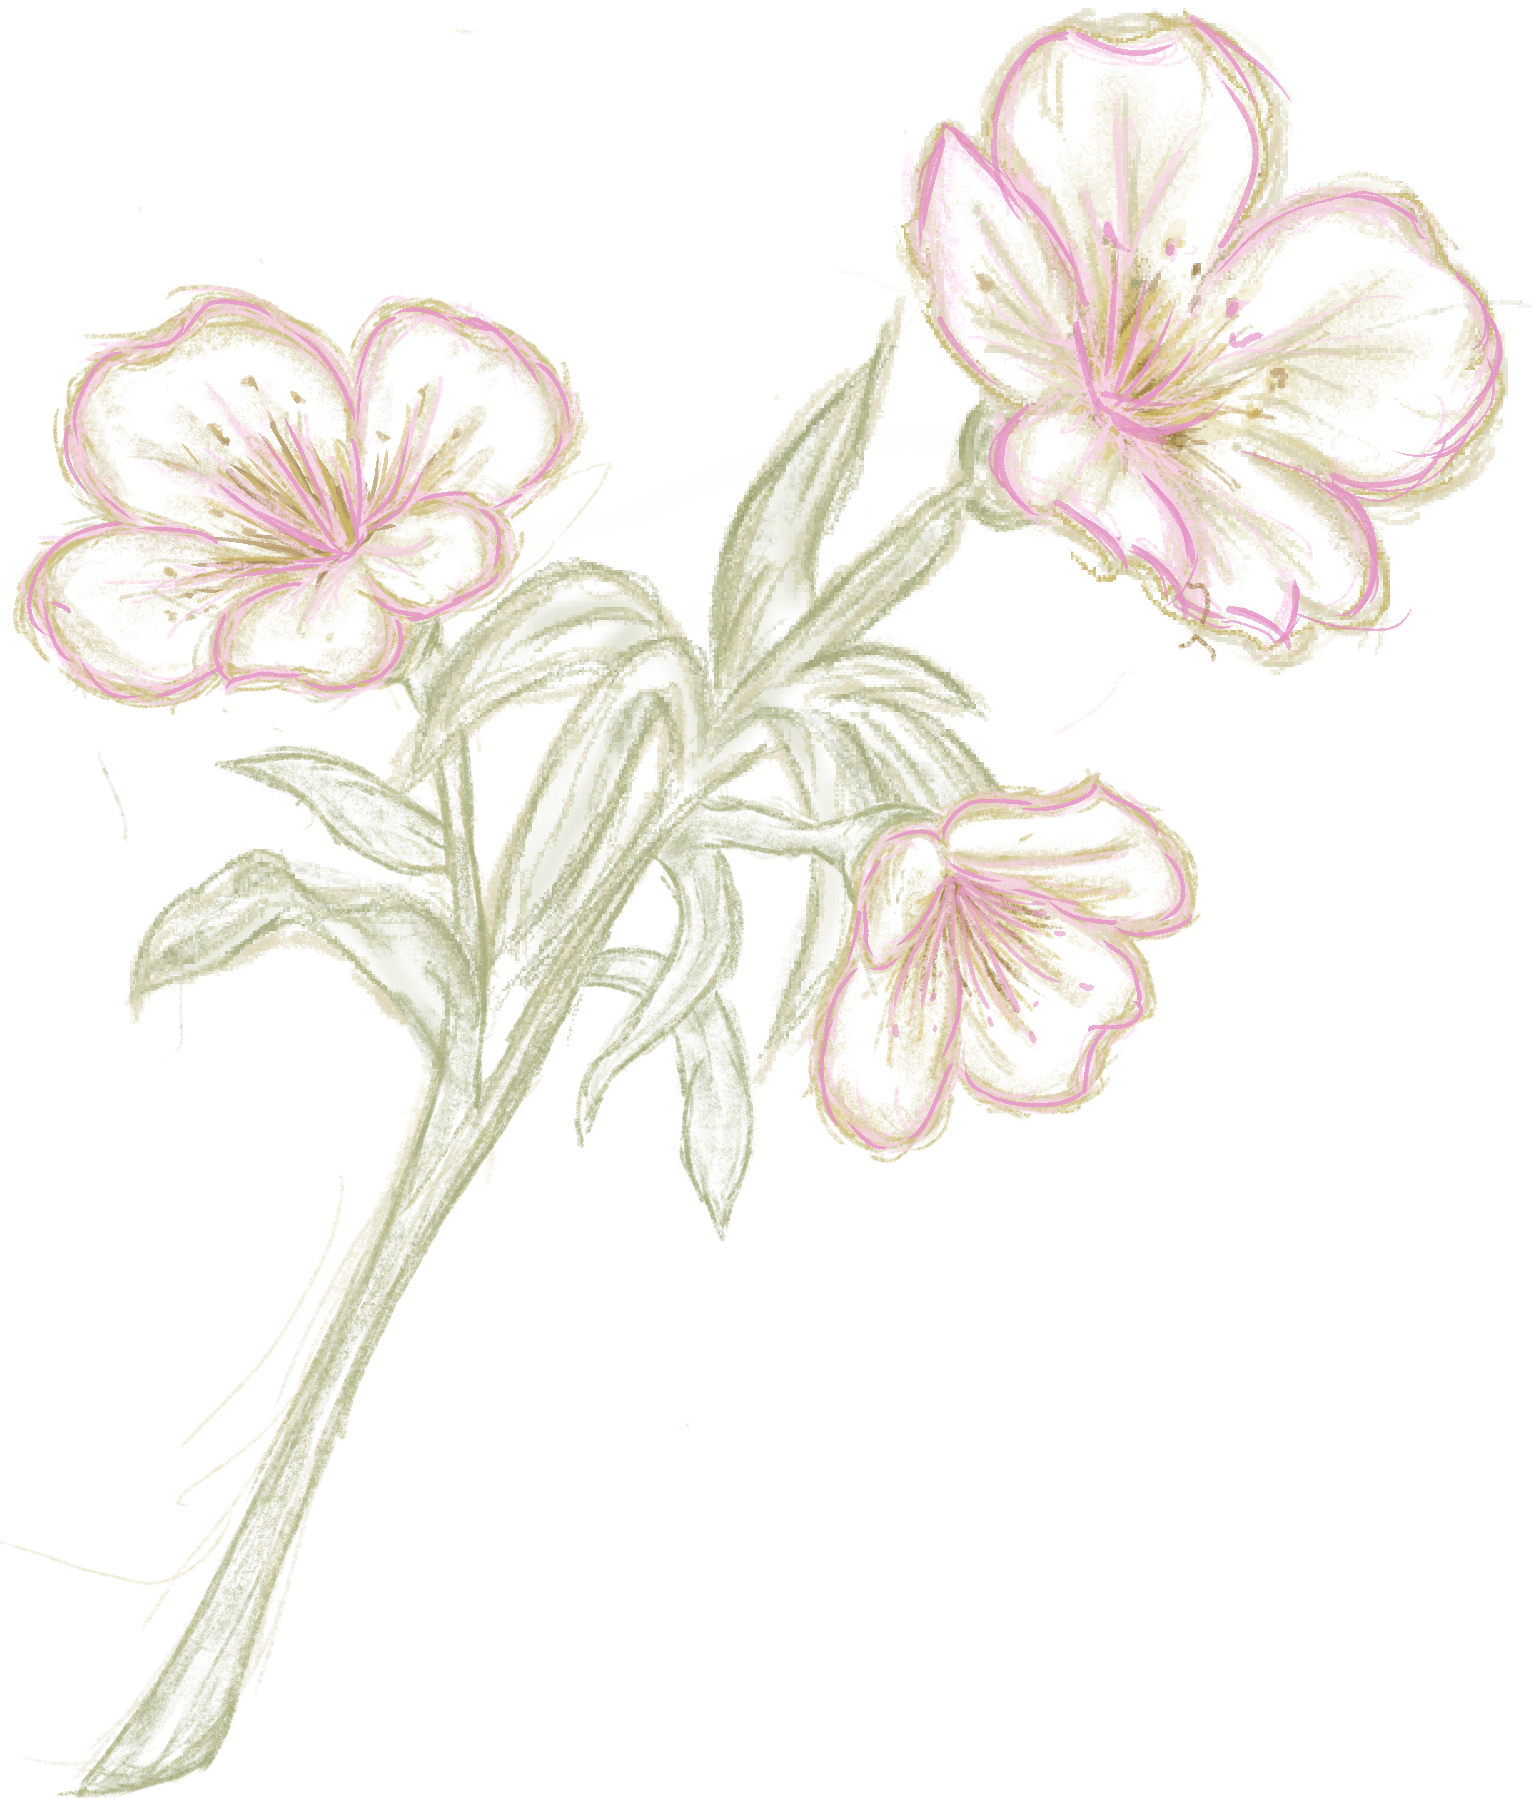
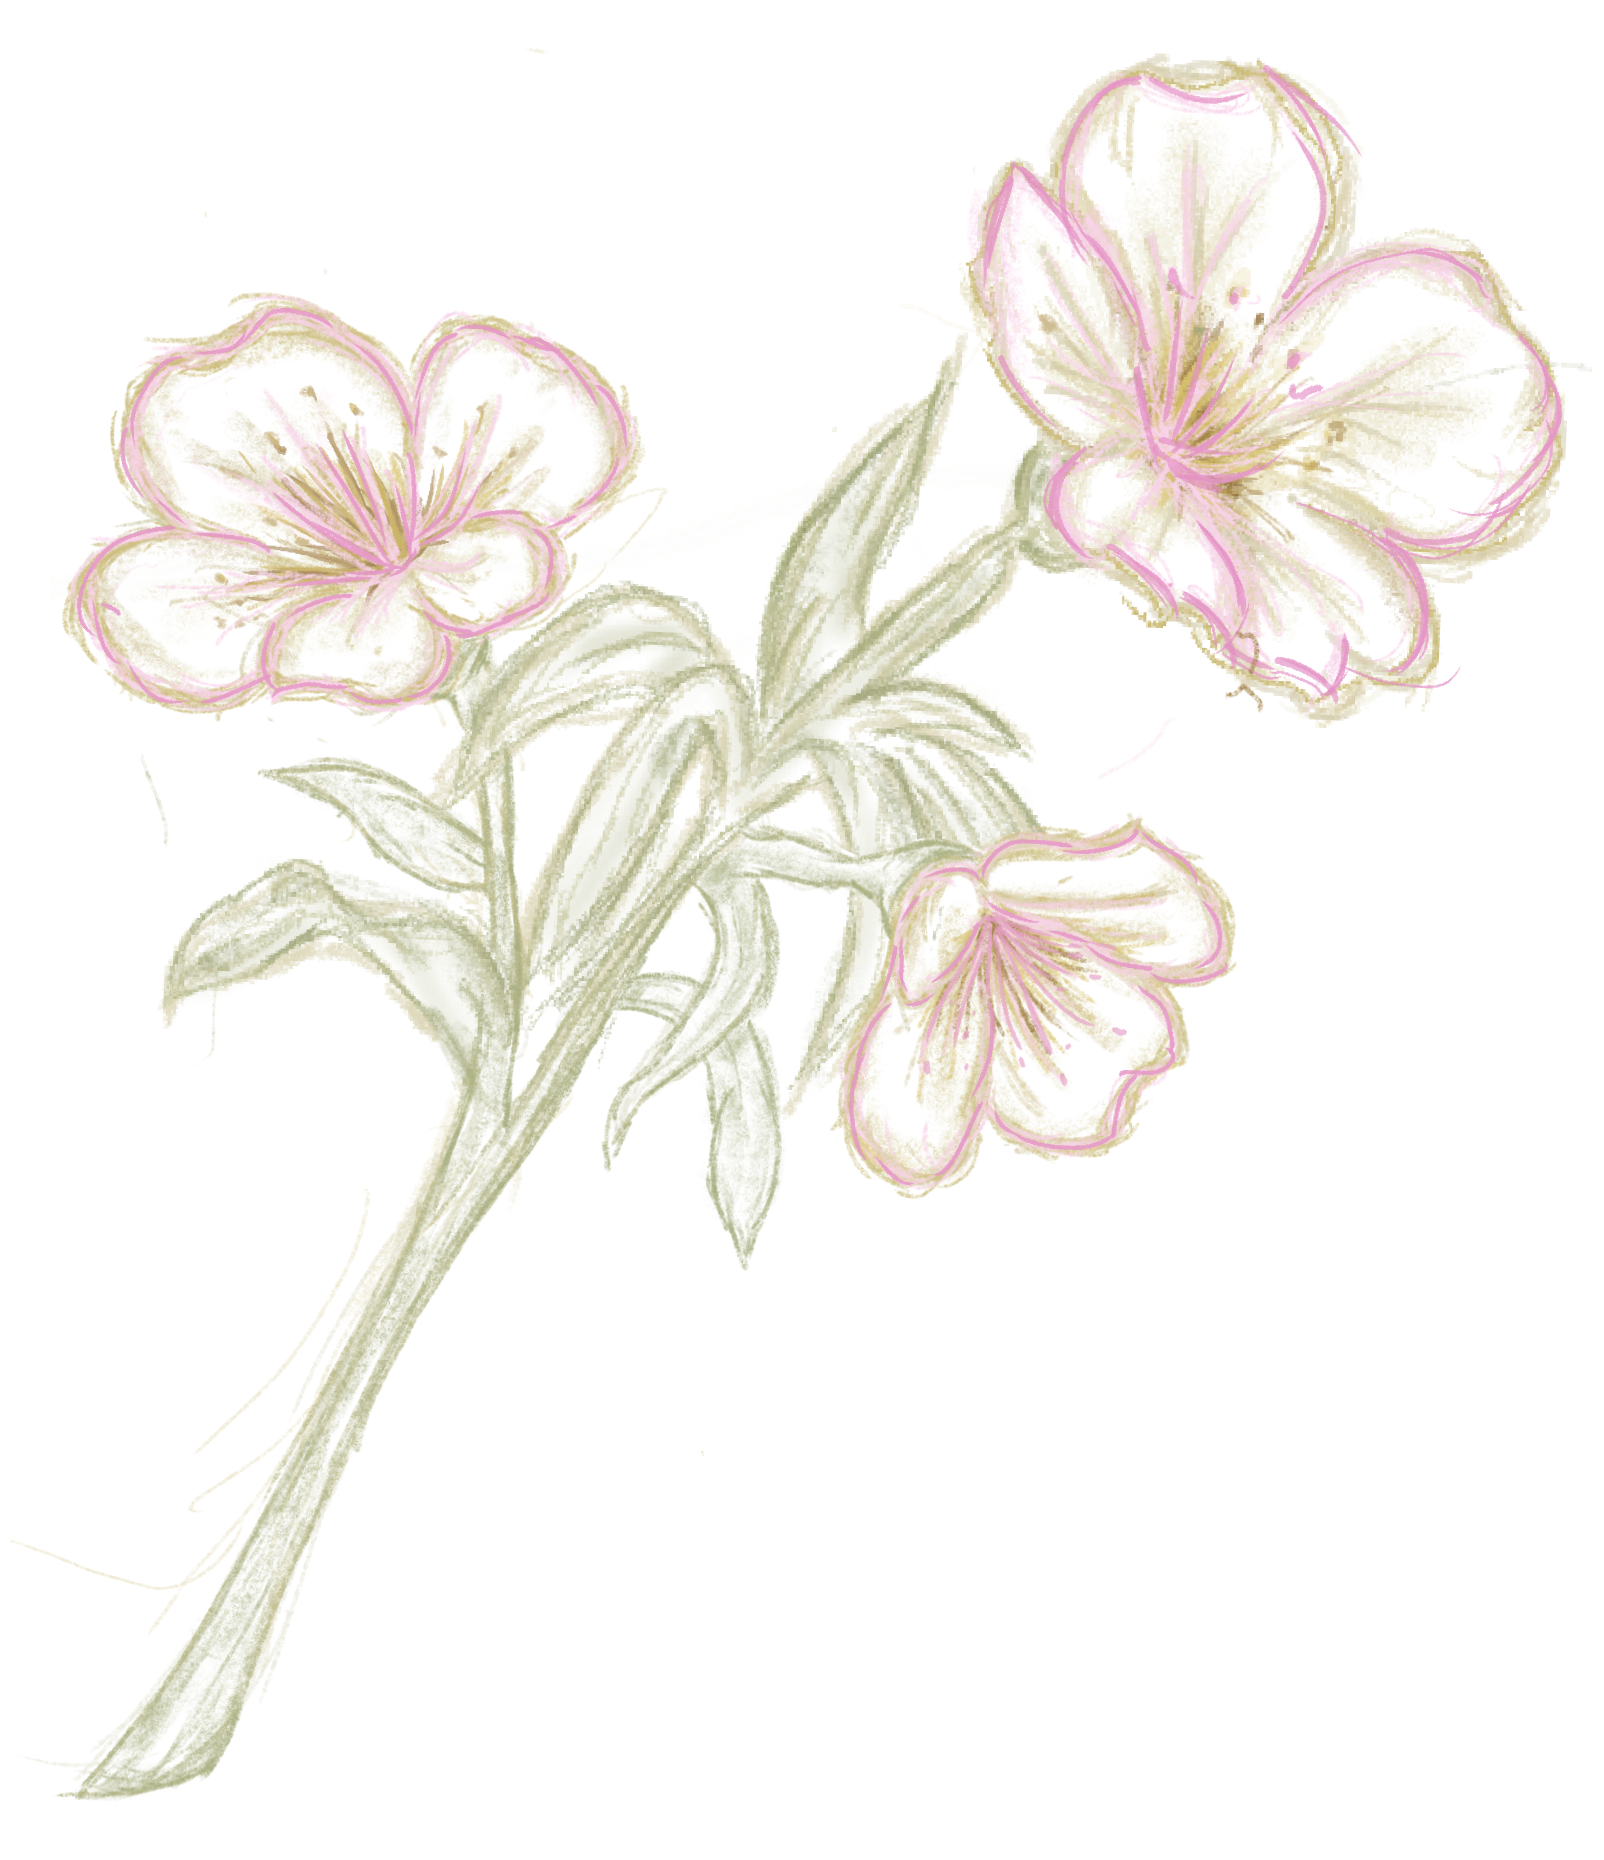
no overlap flower and text

Changed region(s): [[0.0, 0.0, 1.0, 1.0]]

diff --git a/sidneyandthomas/app/page.tsx b/sidneyandthomas/app/page.tsx
@@ -45,11 +45,10 @@ export default function Home() {
             src={flowerImage}
             alt="Illustration of a flowering orchid"
             className={`
-              fade-in fade-in-image z-0 col-start-1 row-start-1 mt-[18dvh] h-auto max-h-[75dvh] w-full rotate-[2.4deg]
+              fade-in fade-in-image z-0 col-start-1 row-start-1 mt-[18dvh] h-auto max-h-[75dvh] w-full
               self-start object-contain
-              lg:col-start-1 lg:col-end-4 lg:row-end-2 lg:w-[65vw]
-              lg:max-h-[130dvh] lg:justify-self-end
-              lg:-mt-10
+              lg:col-start-2 lg:col-end-4 lg:row-end-2 lg:w-[65vw] lg:max-h-[130dvh] lg:justify-self-end
+              lg:-mt-10 lg:origin-top-right lg:scale-110 lg:align-self-center
             `}
             priority
             style={{ opacity: 0 }}
